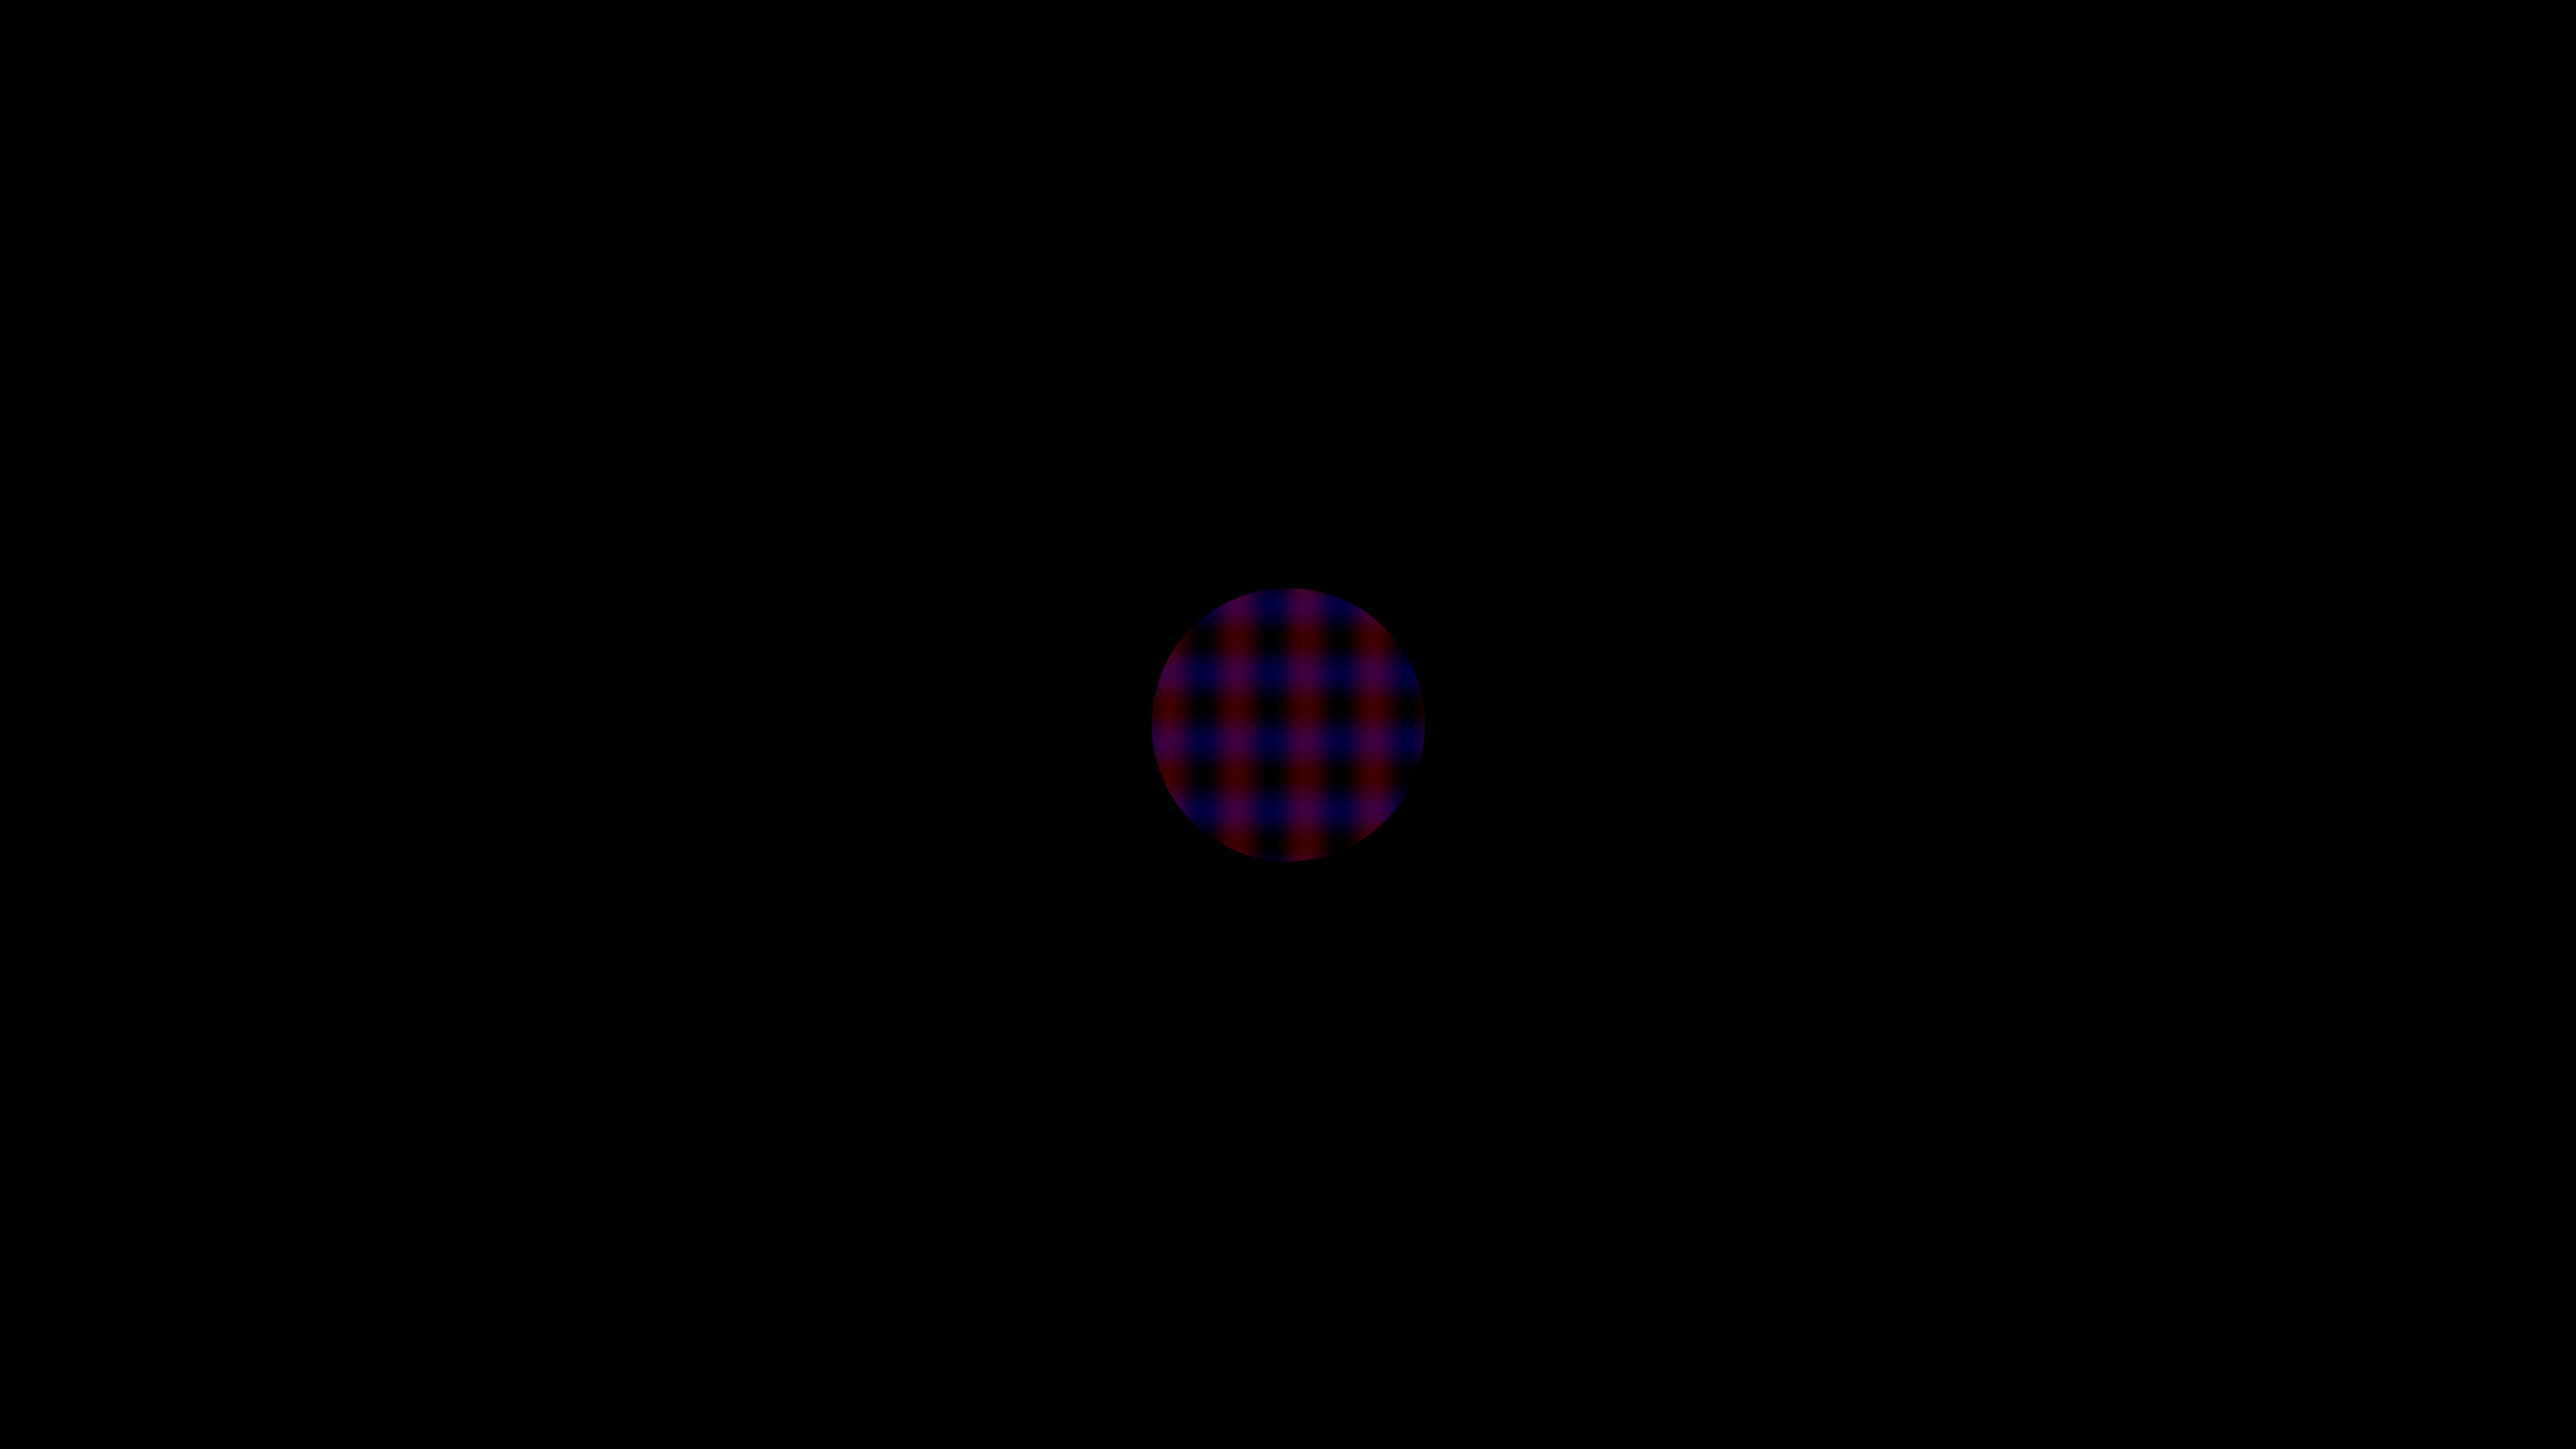
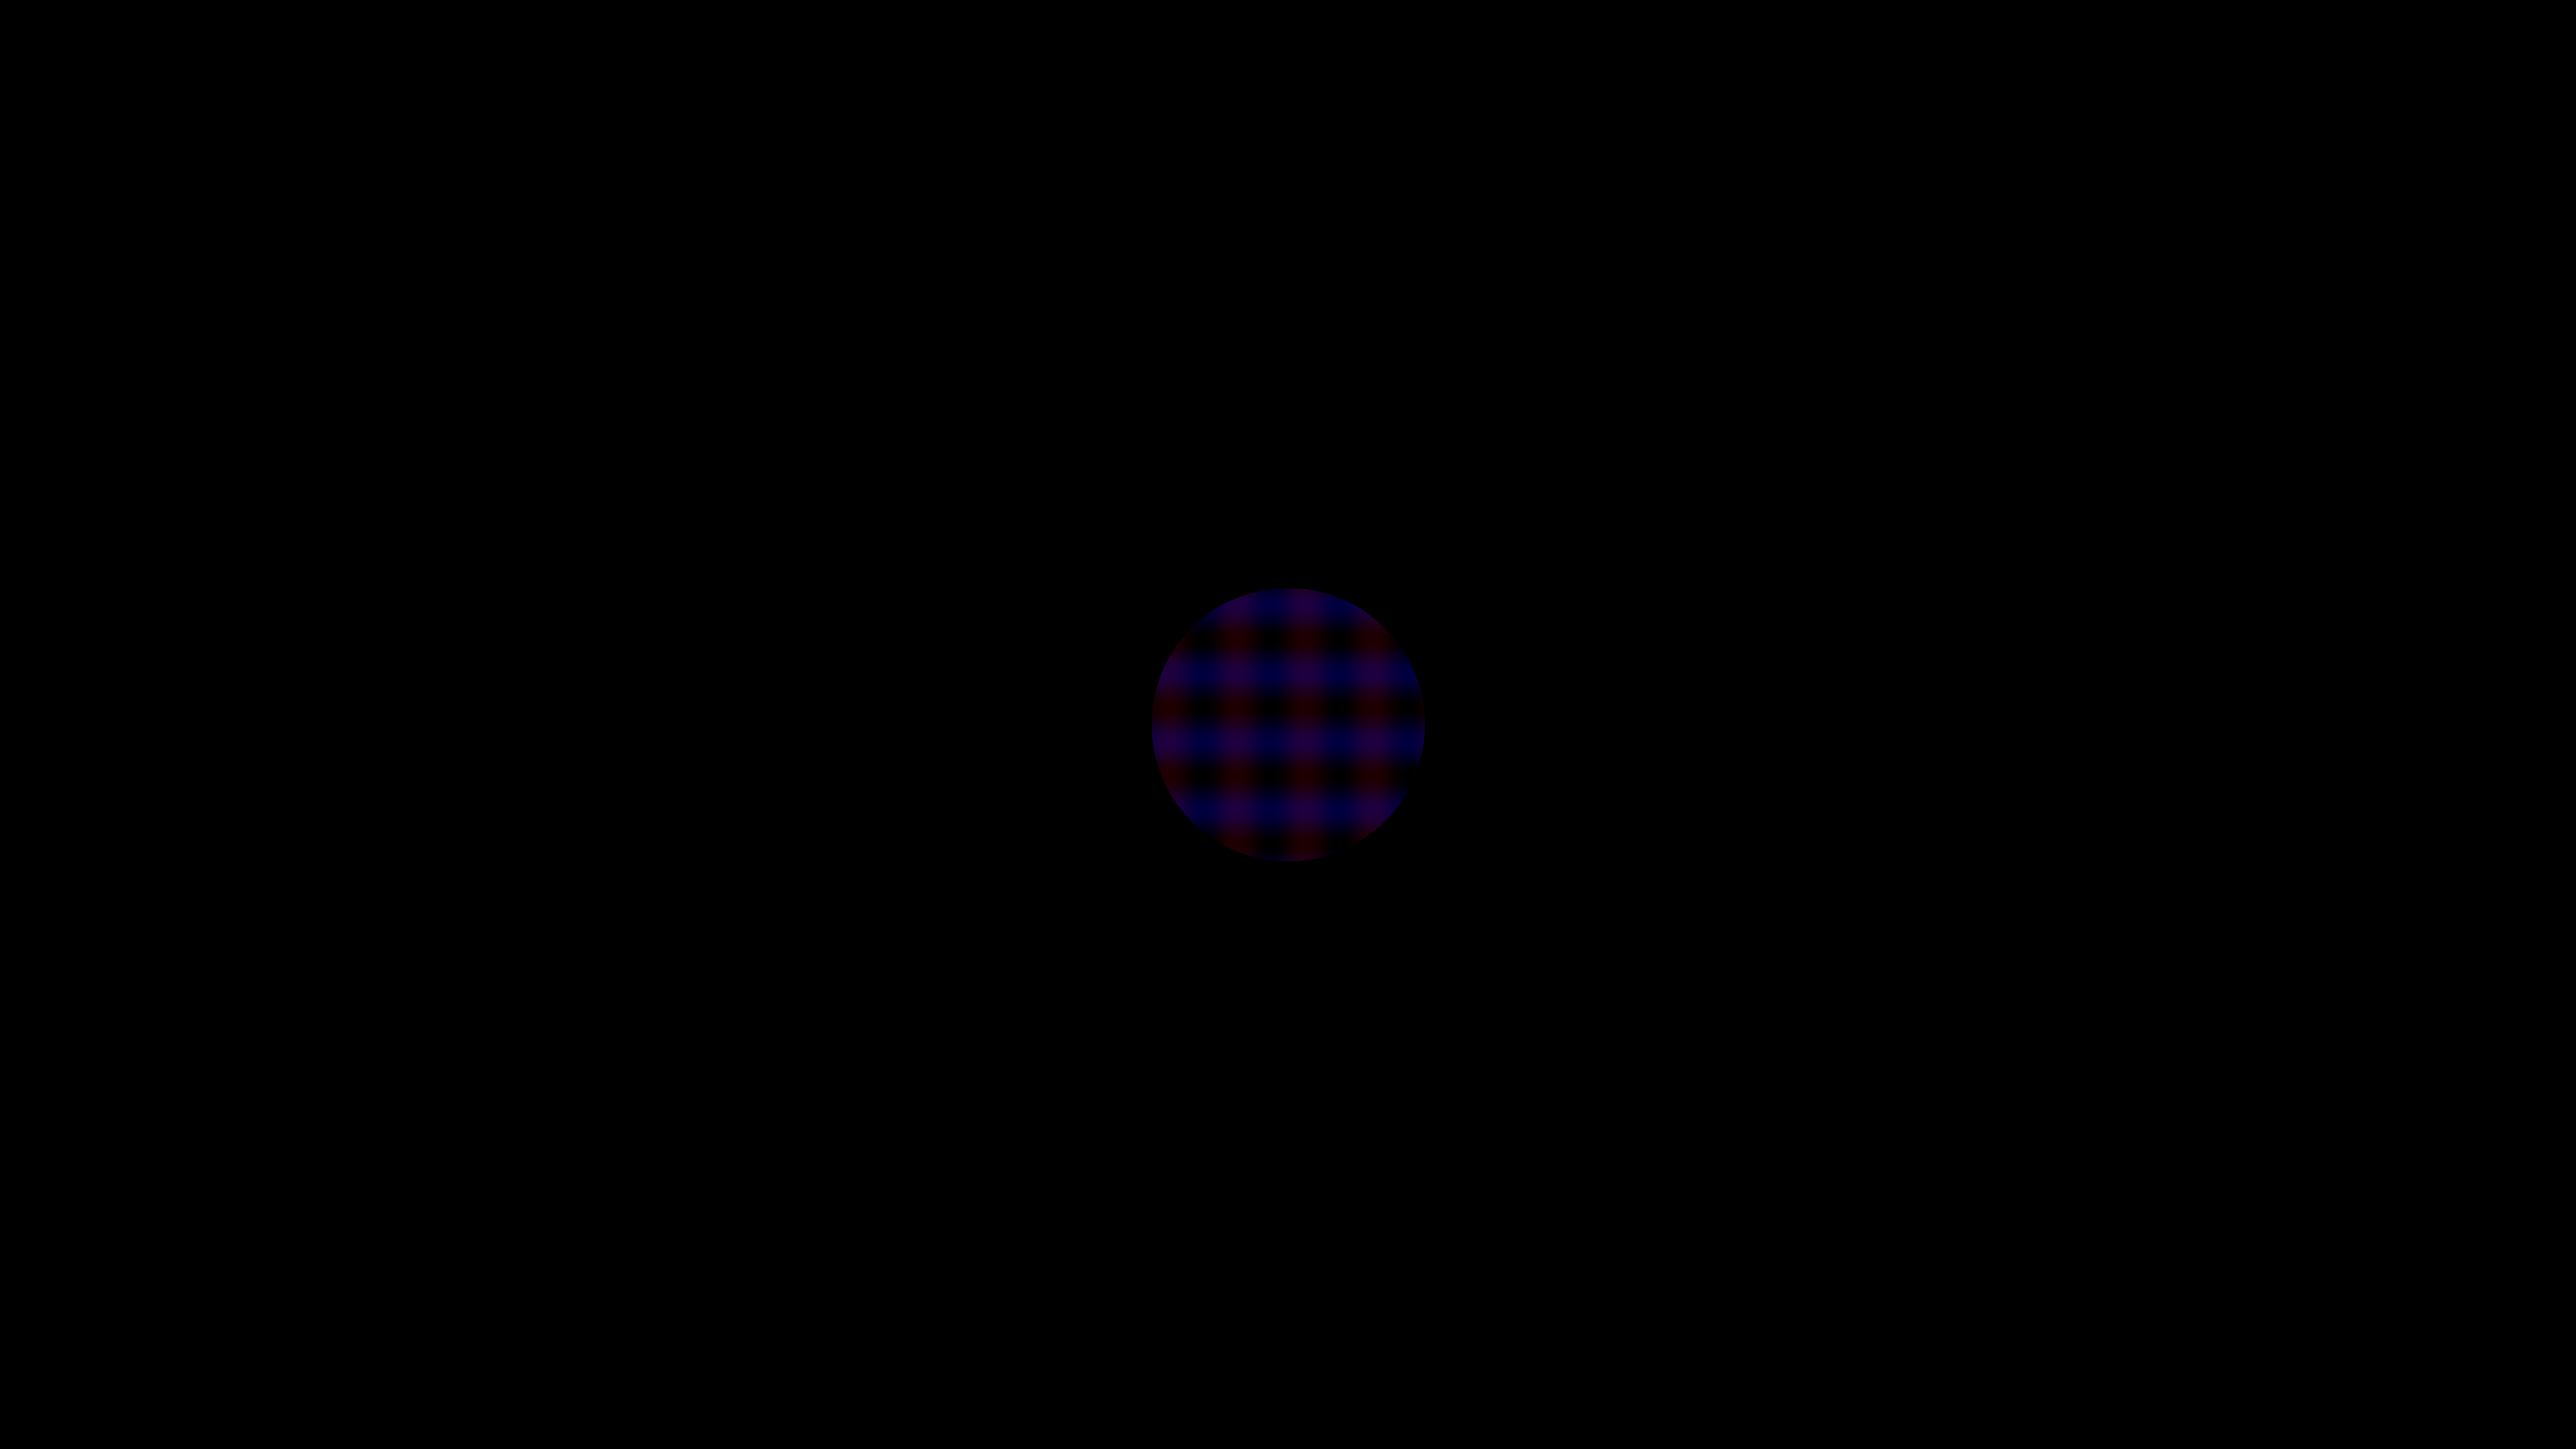
modified blending

Changed region(s): [[0.4375, 0.4044, 0.5625, 0.5911]]

diff --git a/binoriv_stimulus.m b/binoriv_stimulus.m
@@ -63,12 +63,12 @@ image_mono_v(:,:,1) = 255; % R channel; 255 is max contrast
 image_mono_v(:,:,1) = (sin(x)+1)/2*cont_l .* circle; % R channel; 255 is max contrast
 %image_mono_v(:,:,2) = (sin(x)+1)/2*cont_l .* circle; % G channel
 %image_mono_v(:,:,3) = (sin(x)+1)/2*cont_l .* circle; % B channel
-%image_mono_v(:,:,4) = 255/2; % alpha chanel (transparency); the drawing destination in perceptual
+%image_mono_v(:,:,4) = 255*0.5; % alpha chanel (transparency); the drawing destination in perceptual
 %image_mono_h(:,:,1) = (sin(y)+1)/2*cont_r .* circle;
 %image_mono_h(:,:,2) = (sin(y)+1)/2*cont_r .* circle;
 image_mono_h(:,:,3) = 255;
 image_mono_h(:,:,3) = (sin(y)+1)/2*cont_r .* circle;
-%image_mono_h(:,:,4) = 255/2; % alpha chanel (transparency)
+%image_mono_h(:,:,4) = 255*0.5; % alpha chanel (transparency)
 
 mono_v = Screen('MakeTexture', w, image_mono_v);
 mono_h = Screen('MakeTexture', w, image_mono_h);
@@ -95,6 +95,7 @@ end
 filename = [];
 for i = orientation
     if i == 0 % vertical
+        Screen('BlendFunction', w, GL_SRC_ALPHA, GL_ONE_MINUS_SRC_ALPHA);
         Screen('DrawTexture', w, mono_v)
         %Screen('BlendFunction', w, GL_SRC_ALPHA, GL_ONE_MINUS_SRC_ALPHA);
         %Screen('DrawTexture', w, red_filter)
@@ -119,9 +120,8 @@ for i = orientation
         imdata_r(:,:,4) = 255*0.5; % alpha channel
         imagetex_l = Screen('MakeTexture', w, imdata_l);
         imagetex_r = Screen('MakeTexture', w, imdata_r);
-        %Screen('BlendFunction', w, GL_SRC_ALPHA, GL_ONE_MINUS_SRC_ALPHA);
-        Screen('DrawTexture', w, imagetex_l)
         Screen('BlendFunction', w, GL_SRC_ALPHA, GL_ONE_MINUS_SRC_ALPHA);
+        Screen('DrawTexture', w, imagetex_l)
         Screen('DrawTexture', w, imagetex_r)
         Screen('Flip', w); % 画面を更新
         if savefile == 1

diff --git a/binoriv_phys_switch.m b/binoriv_phys_switch.m
@@ -8,7 +8,7 @@ if report == 1
     VertKey = KbName('UpArrow');
     HorzKey = KbName('LeftArrow');
 end
-    
+
 fix_loc_label = randi([1 4],1,num_trial);
 answer = [];
 
@@ -28,11 +28,13 @@ for t = 1:num_trial
     
     while (vbl < (trial_len + start))
         if phys_stim(t) == 0 % L
+            %Screen('BlendFunction', w, GL_SRC_ALPHA, GL_ONE_MINUS_SRC_ALPHA);
             Screen('DrawTexture', w, imagetex_l);
-            Screen('FillOval', w, red, fix_loc)
+            Screen('FillOval', w, red, fix_loc);
         elseif phys_stim(t) == 1 % R
+            %Screen('BlendFunction', w, GL_SRC_ALPHA, GL_ONE_MINUS_SRC_ALPHA);
             Screen('DrawTexture', w, imagetex_r);
-            Screen('FillOval', w, blue, fix_loc)
+            Screen('FillOval', w, blue, fix_loc);
         end
         vbl = Screen('Flip', w); % return current time
         

diff --git a/binoriv_main.m b/binoriv_main.m
@@ -97,7 +97,7 @@ imagetex_r = Screen('MakeTexture', w, imdata_r);
 for i = 1:num_superblock
             
     for j = 1:num_triad
-        phys_bino = 1%randi([0 1],1,1); % if 0 phys->bino, if 1 bino->phys
+        phys_bino = randi([0 1],1,1); % if 0 phys->bino, if 1 bino->phys
         phys_stim = phys_stim(randperm(num_trial)); % shuffle the order of the phys stimuli
         if phys_bino == 0  
             binoriv_phys_switch(w,red,blue,i,j,trial_len,num_trial,imagetex_l,imagetex_r,potential_loc,report,phys_stim,subj_dist);
